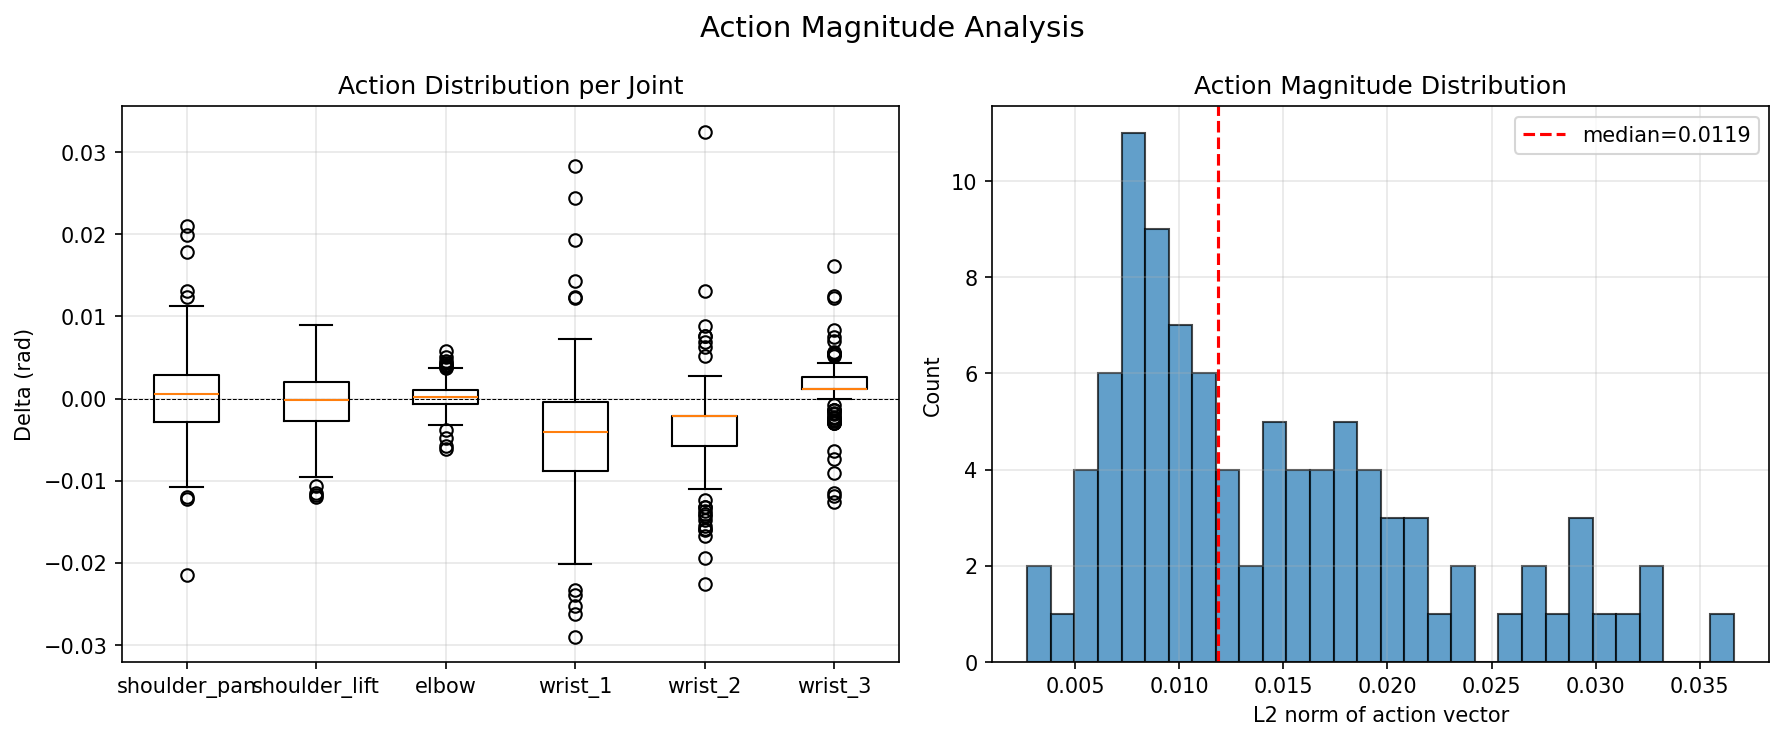
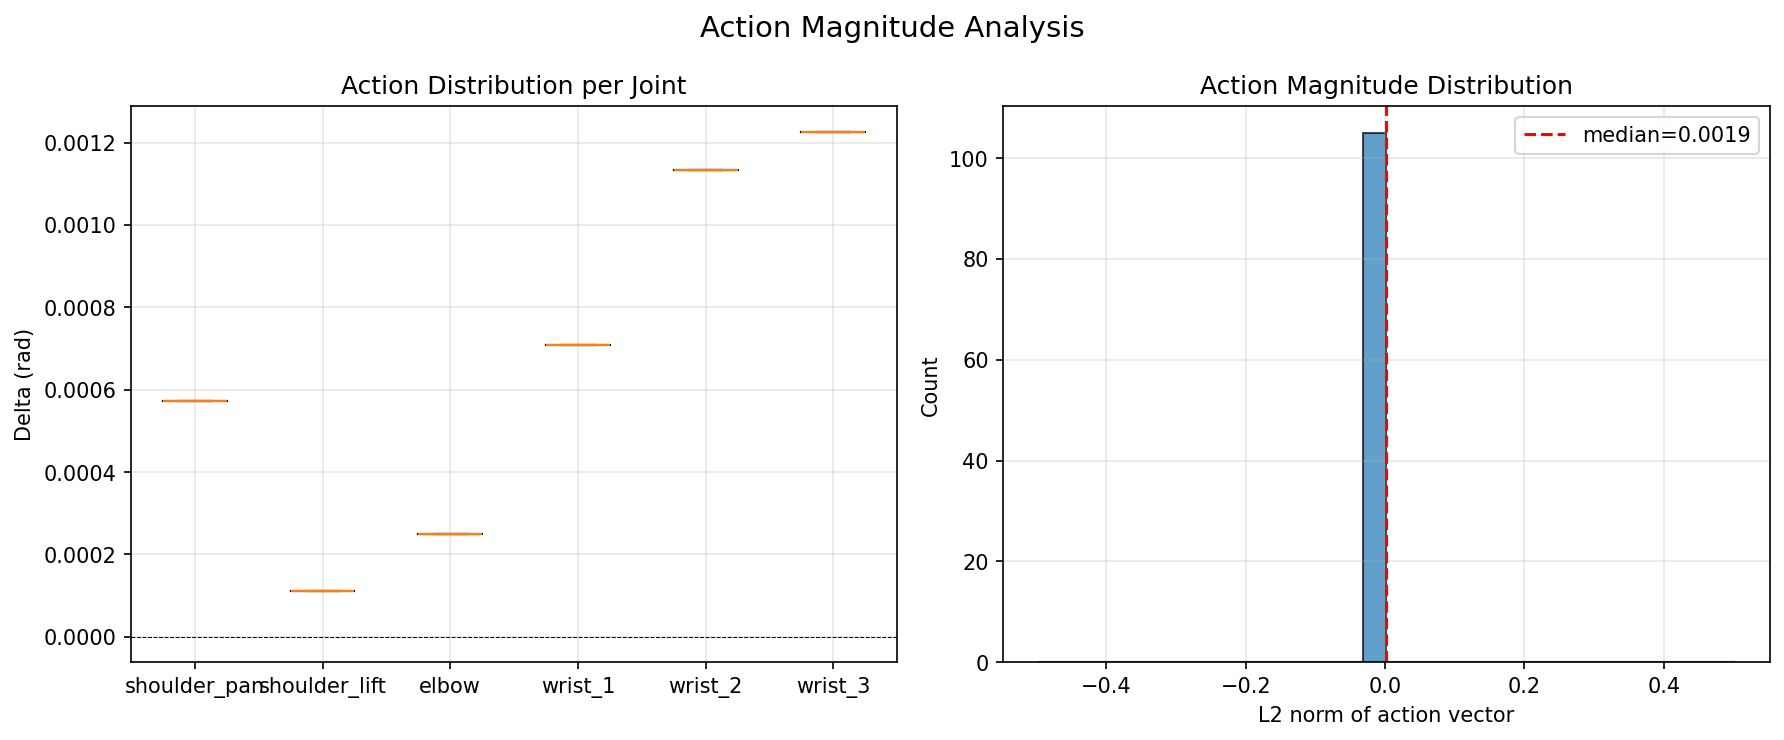
pr cleanups

diff --git a/src/vla_controller/vla_controller/eval_recorder.py b/src/vla_controller/vla_controller/eval_recorder.py
@@ -1,18 +1,18 @@
-"""Visualization and recording for VLA controller dry-run evaluation.
+"""Record and visualize VLA controller evaluation runs.
 
-Records a rosbag of diagnostic topics while the VLA controller runs, then
-produces matplotlib plots on Ctrl+C (or after a timeout). Bags are saved to
-training_data/eval_runs/ for later replay.
+Records a rosbag of diagnostic topics while the VLA controller runs (live or
+dry-run mode), then produces matplotlib plots on Ctrl+C (or after a timeout).
+Bags are saved to training_data/eval_runs/ for later replay.
 
 Usage:
     # Live recording + plotting (Ctrl+C to stop and plot):
-    ros2 run vla_controller viz_dry_run
+    ros2 run vla_controller eval_recorder
 
     # Auto-stop after 60 seconds:
-    ros2 run vla_controller viz_dry_run --ros-args -p timeout_sec:=60.0
+    ros2 run vla_controller eval_recorder --ros-args -p timeout_sec:=60.0
 
     # Replay a previously recorded bag (no live subscription needed):
-    ros2 run vla_controller viz_dry_run --ros-args -p replay:=training_data/eval_runs/eval_20260322_154800
+    ros2 run vla_controller eval_recorder --ros-args -p replay:=training_data/eval_runs/eval_20260322_154800
 """
 
 import os
@@ -71,9 +71,9 @@ def _make_bag_path() -> str:
     return os.path.join(EVAL_DIR, f"eval_{stamp}")
 
 
-class VizDryRunNode(Node):
+class EvalRecorderNode(Node):
     def __init__(self):
-        super().__init__("viz_dry_run")
+        super().__init__("eval_recorder")
 
         self.declare_parameter("timeout_sec", 0.0)
         self.declare_parameter("replay", "")
@@ -117,7 +117,7 @@ class VizDryRunNode(Node):
             self.create_timer(1.0, self._check_timeout)
 
         self.get_logger().info(
-            f"viz_dry_run started. Recording to {self._bag_path}\n"
+            f"eval_recorder started. Recording to {self._bag_path}\n"
             f"{'Press Ctrl+C to stop and plot.' if self.timeout_sec <= 0 else f'Will auto-plot after {self.timeout_sec}s.'}"
         )
 
@@ -372,7 +372,7 @@ class VizDryRunNode(Node):
 
 def main():
     rclpy.init()
-    node = VizDryRunNode()
+    node = EvalRecorderNode()
 
     # In replay mode the plot is already shown; just clean up.
     if node.replay_path:

diff --git a/scripts/regenerate_eval_plots.py b/scripts/regenerate_eval_plots.py
@@ -51,7 +51,6 @@ def main():
     # Read all data from bag.
     joint_index_map = None
     first_ts = None
-    last_joint_ts = None
     joint_times, joint_positions = [], []
     raw_actions = []  # (t, np.array(n_steps, 6))
     predicted_targets = []  # (t, np.array(n_steps, 6))
@@ -76,10 +75,6 @@ def main():
                     joint_index_map.append(name_to_idx[name])
                 if joint_index_map is None:
                     continue
-            # Drop the "echo" publisher that arrives <10ms after the real one.
-            if last_joint_ts is not None and (t - last_joint_ts) < 0.01:
-                continue
-            last_joint_ts = t
             pos = np.array(msg.position)[joint_index_map]
             joint_times.append(t)
             joint_positions.append(pos)

diff --git a/src/vla_controller/setup.py b/src/vla_controller/setup.py
@@ -24,7 +24,7 @@ setup(
     entry_points={
         "console_scripts": [
             "vla_controller_node = vla_controller.vla_controller_node:main",
-            "viz_dry_run = vla_controller.viz_dry_run:main",
+            "eval_recorder = vla_controller.eval_recorder:main",
         ],
     },
 )

diff --git a/README.md b/README.md
@@ -151,16 +151,16 @@ Tune verbosity in `src/vla_controller/config/vla_params.yaml`:
 - `log_inference_packets`
 - `log_action_chunks`
 
-#### Evaluating Inference (Dry-Run Visualization)
+#### Evaluating Inference
 
-The `viz_dry_run` tool records a rosbag of the VLA controller's diagnostic output and produces matplotlib plots for offline analysis. Use it to verify the model is producing reasonable actions before running live on the arm.
+The `eval_recorder` tool records a rosbag of the VLA controller's diagnostic output and produces matplotlib plots for offline analysis. Works in both dry-run and live mode.
 
 ##### Live recording
 
 Start this in a separate terminal while the VLA controller is running with `dry_run:=true`:
 
 ```sh
-ros2 run vla_controller viz_dry_run
+ros2 run vla_controller eval_recorder
 ```
 
 The tool subscribes to:
@@ -173,7 +173,7 @@ Data is recorded to a timestamped rosbag in `training_data/eval_runs/`. Press Ct
 To auto-stop after a fixed duration:
 
 ```sh
-ros2 run vla_controller viz_dry_run --ros-args -p timeout_sec:=60.0
+ros2 run vla_controller eval_recorder --ros-args -p timeout_sec:=60.0
 ```
 
 ##### Replaying a saved evaluation
@@ -181,7 +181,7 @@ ros2 run vla_controller viz_dry_run --ros-args -p timeout_sec:=60.0
 Re-plot from a previously recorded bag without a live ROS system:
 
 ```sh
-ros2 run vla_controller viz_dry_run --ros-args \
+ros2 run vla_controller eval_recorder --ros-args \
   -p replay:=training_data/eval_runs/eval_20260322_154800
 ```
 

diff --git a/thoughts/Model Finetuning Eval Datadump 032226.md b/thoughts/Model Finetuning Eval Datadump 032226.md
@@ -219,7 +219,7 @@ The Raw Action Deltas plot confirms this — each inference chunk produces a sma
 |---|---|
 | 2026-03-22 | Relaxed decoding patch applied to `openpi/src/openpi/models/tokenizer.py`. |
 | 2026-03-22 | First successful non-zero inference (Eval Run 1). |
-| 2026-03-22 | `viz_dry_run` evaluation tool built — records rosbag + produces diagnostic plots. |
+| 2026-03-22 | `eval_recorder` evaluation tool built — records rosbag + produces diagnostic plots. |
 | 2026-03-22 | Training resumed toward 20-30k steps on Colab A100 (pending). |
 | 2026-03-22 | Eval Run 2 — longer run confirms model outputs small directionless deltas. Under-trained at 10k steps. |
 
